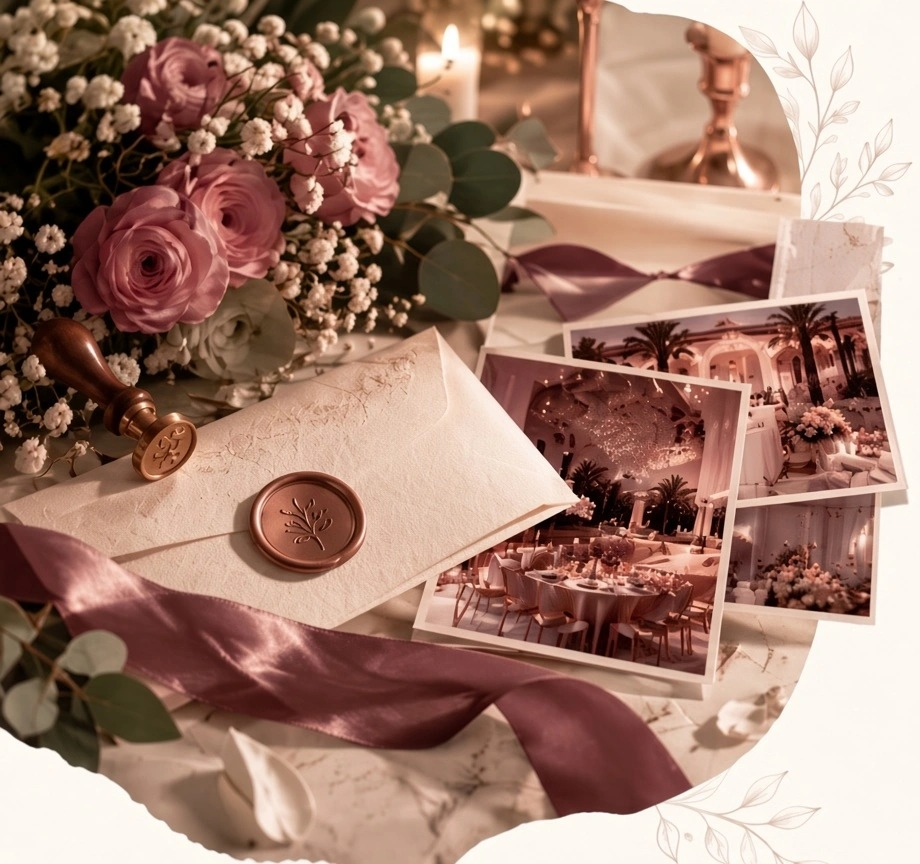
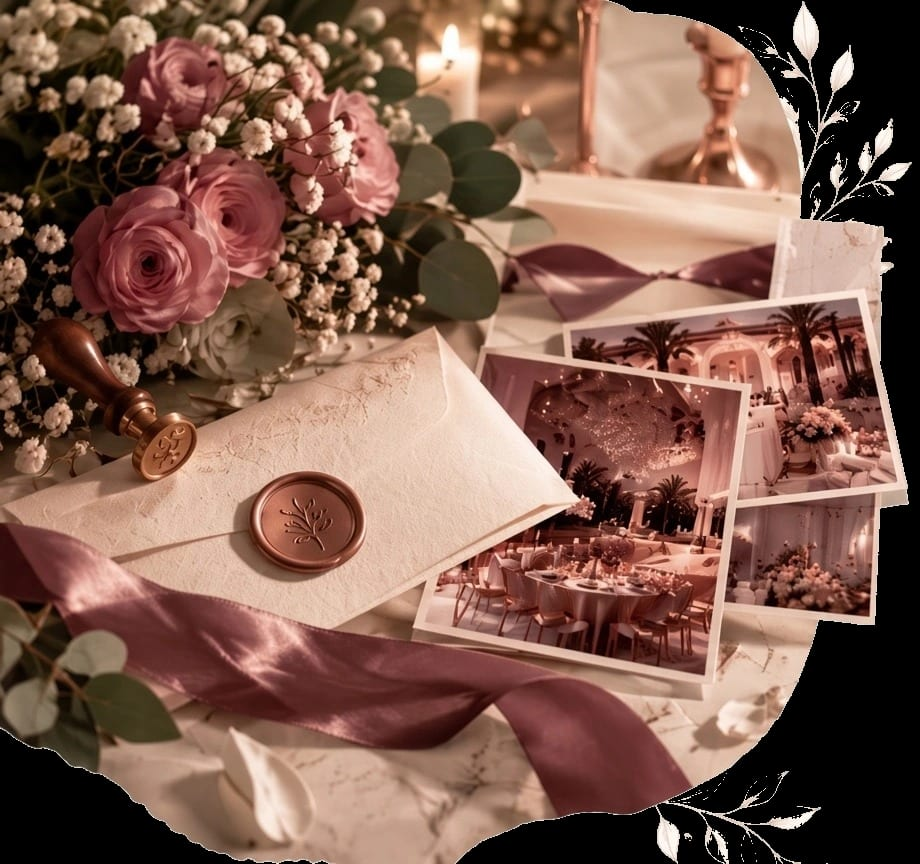
perf(frontend): compress assets, lazy-load landing, and bold hall/auth CTAs
Replace heavy PNGs with JPEGs, drop unused home assets and JoinSection, lazy-load category/featured sections, and strengthen DIN Next CTA weight without shipping local dark mode or demo login.

Changed region(s): [[0.487, 0.0, 1.0, 1.0], [0.0, 0.8438, 0.2739, 1.0], [0.3043, 0.9688, 0.3348, 1.0]]

diff --git a/Frontend/src/components/assistant/AskMabroukAboutHallButton.tsx b/Frontend/src/components/assistant/AskMabroukAboutHallButton.tsx
@@ -45,7 +45,7 @@ export default function AskMabroukAboutHallButton({
         onClick={() => launcher.openWithContext({ id: hallId, name })}
         className={`relative inline-flex w-max max-w-full flex-col items-center focus-visible:outline focus-visible:outline-2 focus-visible:outline-offset-2 focus-visible:outline-[var(--wesal-maroon)] disabled:cursor-not-allowed ${className}`}
       >
-        <span className="ask-mabrouk-edge-prompt relative z-10 mb-1 max-w-[11rem] rounded-2xl bg-[var(--wesal-white)] px-3 py-1.5 text-center text-xs font-bold leading-5 text-[var(--wesal-maroon)] shadow-[0_8px_18px_rgba(193,123,127,0.18)]">
+        <span className="ask-mabrouk-edge-prompt wesal-text-bold relative z-10 mb-1 max-w-[11rem] rounded-2xl bg-[var(--wesal-white)] px-3 py-1.5 text-center text-xs leading-5 text-[var(--wesal-maroon)] shadow-[0_8px_18px_rgba(193,123,127,0.18)]">
           {t("assistant.hallButton.prompt")}
           <span className="ask-mabrouk-edge-tail absolute -bottom-1 start-5 size-2.5 rotate-45 bg-[var(--wesal-white)]" aria-hidden="true" />
         </span>
@@ -61,7 +61,7 @@ export default function AskMabroukAboutHallButton({
         </span>
         <span className="wesal-mabrouk-ask inline-flex items-center gap-2 rounded-full bg-[var(--wesal-maroon)] py-1.5 pe-1.5 ps-3 text-white transition-colors hover:bg-[var(--wesal-maroon-dark)]">
           <ChatIcon />
-          <span className="text-sm font-extrabold">{t("assistant.hallButton.title")}</span>
+          <span className="wesal-text-bold text-sm">{t("assistant.hallButton.title")}</span>
           <span className="wesal-mabrouk-ask-chevron grid size-7 place-items-center rounded-full bg-[var(--wesal-pink)] text-[var(--wesal-maroon)]" aria-hidden="true">
             <ChevronIcon />
           </span>
@@ -93,10 +93,10 @@ export default function AskMabroukAboutHallButton({
         />
       </span>
       <span className="min-w-0 flex-1 px-1 text-center">
-        <span className="block text-xs font-extrabold leading-tight text-white">
+        <span className="wesal-text-bold block text-xs leading-tight text-white">
           {t("assistant.hallButton.title")}
         </span>
-        <span className="mt-px block text-[0.6rem] font-semibold leading-tight text-white/80">
+        <span className="wesal-text-bold mt-px block text-[0.6rem] leading-tight text-white/90">
           {t("assistant.hallButton.subtitle")}
         </span>
       </span>

diff --git a/Frontend/src/components/halls/HallGuestFeedbackPrompt.tsx b/Frontend/src/components/halls/HallGuestFeedbackPrompt.tsx
@@ -24,20 +24,20 @@ export default function HallGuestFeedbackPrompt({
   const loginHref = `/login?redirect=/halls/${hallId}&intent=comment`;
   const registerHref = `/register?redirect=/halls/${hallId}&intent=comment`;
   const linkClass =
-    "text-[#8a6a2e] underline decoration-[#c4a05c] decoration-1 underline-offset-[5px] hover:text-[#6b521c] hover:decoration-[#e8c35a]";
+    "wesal-text-bold text-[#8a6a2e] underline decoration-[#c4a05c] decoration-1 underline-offset-[5px] hover:text-[#6b521c] hover:decoration-[#e8c35a]";
 
   return (
     <p
-      className="mx-auto mt-5 flex max-w-lg items-center justify-center gap-2 text-center text-[15px] font-bold leading-8"
+      className="wesal-text-bold mx-auto mt-5 flex max-w-lg items-center justify-center gap-2 text-center text-[15px] leading-8"
       data-testid="hall-feedback-guest"
     >
       <PencilIcon />
       <span>
-        <span className="wesal-gold-wave-text">{t("halls.guest.prompt")}</span>
+        <span className="wesal-gold-wave-text wesal-text-bold">{t("halls.guest.prompt")}</span>
         <Link href={registerHref} className={linkClass}>
           {t("halls.guest.join")}
         </Link>
-        <span className="wesal-gold-wave-text">{t("halls.guest.or")}</span>
+        <span className="wesal-gold-wave-text wesal-text-bold">{t("halls.guest.or")}</span>
         <Link href={loginHref} className={linkClass}>
           {t("halls.guest.login")}
         </Link>

diff --git a/Frontend/src/components/halls/HallDetailsPage.tsx b/Frontend/src/components/halls/HallDetailsPage.tsx
@@ -473,7 +473,7 @@ function HallInquiryActions({
         {phone ? (
           <span
             dir="ltr"
-            className="inline-flex h-9 w-full items-center justify-center rounded-full border border-[color-mix(in_srgb,var(--wesal-border)_55%,transparent)] bg-[#f7f4f2] text-xs font-bold text-[var(--wesal-text)] transition hover:border-[var(--wesal-maroon)] hover:shadow-sm sm:w-auto"
+            className="wesal-text-bold inline-flex h-9 w-full items-center justify-center rounded-full border border-[color-mix(in_srgb,var(--wesal-border)_55%,transparent)] bg-[#f7f4f2] text-xs text-[var(--wesal-text)] transition hover:border-[var(--wesal-maroon)] hover:shadow-sm sm:w-auto"
           >
             <a
               href={`tel:${phone.replace(/[^\d+]/g, "")}`}
@@ -500,7 +500,7 @@ function HallInquiryActions({
             target="_blank"
             rel="noopener noreferrer"
             aria-label={t("halls.details.inquiryWhatsAppAria")}
-            className="inline-flex h-9 w-full items-center justify-center gap-1.5 rounded-full bg-[#25D366] px-3.5 text-xs font-bold text-white shadow-sm transition hover:bg-[#1ebe5d] sm:w-auto"
+            className="wesal-text-bold inline-flex h-9 w-full items-center justify-center gap-1.5 rounded-full bg-[#25D366] px-3.5 text-xs text-white shadow-sm transition hover:bg-[#1ebe5d] sm:w-auto"
           >
             <WhatsAppIcon />
             {t("halls.details.inquiryWhatsApp")}

diff --git a/Frontend/src/components/halls/HallYouTubeEmbed.tsx b/Frontend/src/components/halls/HallYouTubeEmbed.tsx
@@ -149,14 +149,14 @@ export default function HallYouTubeEmbed({
         <button
           type="button"
           onClick={openModal}
-          className="group inline-flex items-center gap-2 text-base font-semibold text-[var(--wesal-text)]"
+          className="group inline-flex items-center gap-2 text-base text-[var(--wesal-text)]"
           data-testid="hall-youtube-link"
           aria-haspopup="dialog"
         >
           <YouTubeIcon />
           <span>
-            <span className="font-bold text-[#241c18]">{t("halls.details.youtubeLead")}</span>{" "}
-            <span className="font-bold text-[var(--wesal-maroon)] underline decoration-[var(--wesal-maroon)]/40 underline-offset-4 transition duration-200 group-hover:text-[var(--wesal-maroon-dark)] group-hover:decoration-[var(--wesal-maroon-dark)]">
+            <span className="wesal-text-bold text-[#241c18]">{t("halls.details.youtubeLead")}</span>{" "}
+            <span className="wesal-text-bold text-[var(--wesal-maroon)] underline decoration-[var(--wesal-maroon)]/40 underline-offset-4 transition duration-200 group-hover:text-[var(--wesal-maroon-dark)] group-hover:decoration-[var(--wesal-maroon-dark)]">
               {t("halls.details.youtubeHere")}
             </span>
           </span>

diff --git a/Frontend/src/components/auth/LoginFormCard.tsx b/Frontend/src/components/auth/LoginFormCard.tsx
@@ -342,12 +342,12 @@ export default function LoginFormCard({
       <div className="my-3 flex items-center gap-3 text-xs text-[var(--wesal-muted)]"><span className="h-px flex-1 bg-[var(--wesal-border)]" />{t("auth.google.or")}<span className="h-px flex-1 bg-[var(--wesal-border)]" /></div>
       <GoogleAuthButton onCredential={(credential) => void onGoogleCredential(credential)} disabled={pending} />
 
-      <p className="mt-3 text-center text-xs text-[var(--wesal-muted)] sm:text-sm">
+      <p className="mt-3 text-center text-xs font-extrabold text-[var(--wesal-muted)] [-webkit-text-stroke:0.35px_currentColor] [paint-order:stroke_fill] sm:text-sm">
         {t("auth.login.noAccount")}{" "}
         <Link
           href={registerHref}
           onClick={markAuthNavigation}
-          className="font-semibold text-[var(--wesal-maroon)] underline-offset-2 hover:underline"
+          className="font-extrabold text-[var(--wesal-maroon)] underline-offset-2 hover:underline [-webkit-text-stroke:0.35px_currentColor] [paint-order:stroke_fill]"
         >
           {t("auth.login.registerLink")}
         </Link>

diff --git a/Frontend/src/components/halls/HallContactButton.tsx b/Frontend/src/components/halls/HallContactButton.tsx
@@ -15,7 +15,7 @@ const CONTACT_PAGE_CLASS =
   "btn-primary min-h-11 h-full w-full gap-2 whitespace-nowrap";
 
 const CONTACT_COMPACT_CLASS =
-  "inline-flex h-9 items-center justify-center gap-1.5 rounded-full border border-[color-mix(in_srgb,var(--wesal-maroon)_22%,white)] bg-[color-mix(in_srgb,var(--wesal-pink)_72%,white)] px-3.5 text-xs font-bold text-[var(--wesal-maroon)] transition hover:bg-[var(--wesal-pink)]";
+  "wesal-text-bold inline-flex h-9 items-center justify-center gap-1.5 rounded-full border border-[color-mix(in_srgb,var(--wesal-maroon)_22%,white)] bg-[color-mix(in_srgb,var(--wesal-pink)_72%,white)] px-3.5 text-xs text-[var(--wesal-maroon)] transition hover:bg-[var(--wesal-pink)]";
 
 type HallContactButtonProps = {
   hallId: string;

diff --git a/Frontend/src/components/auth/GoogleAuthButton.tsx b/Frontend/src/components/auth/GoogleAuthButton.tsx
@@ -129,7 +129,7 @@ export default function GoogleAuthButton({
       >
         {/* Same footprint as login submit (rounded-xl / min-h-10). */}
         <div
-          className="pointer-events-none flex min-h-10 w-full items-center justify-center gap-2 rounded-xl border border-[var(--wesal-border)] bg-[var(--wesal-pink-soft)] px-3 text-sm font-bold text-[var(--wesal-maroon-dark)]"
+          className="pointer-events-none flex min-h-10 w-full items-center justify-center gap-2 rounded-xl border border-[var(--wesal-border)] bg-[var(--wesal-pink-soft)] px-3 text-sm font-extrabold text-[var(--wesal-maroon-dark)] [-webkit-text-stroke:0.35px_currentColor] [paint-order:stroke_fill]"
           aria-hidden="true"
         >
           <GoogleMark />

diff --git a/Frontend/src/app/page.tsx b/Frontend/src/app/page.tsx
@@ -1,10 +1,14 @@
 import Navbar from "@/components/layout/Navbar";
 import Footer from "@/components/layout/Footer";
 import HeroSection from "@/components/home/HeroSection";
-import HomeCategoriesSection from "@/components/home/HomeCategoriesSection";
-import FeaturedHallsSection from "@/components/home/FeaturedHallsSection";
 import dynamic from "next/dynamic";
 
+const HomeCategoriesSection = dynamic(
+  () => import("@/components/home/HomeCategoriesSection"),
+);
+const FeaturedHallsSection = dynamic(
+  () => import("@/components/home/FeaturedHallsSection"),
+);
 const OccasionServicesSection = dynamic(
   () => import("@/components/home/OccasionServicesSection"),
 );

diff --git a/Frontend/src/components/halls/HallDetailsView.tsx b/Frontend/src/components/halls/HallDetailsView.tsx
@@ -310,7 +310,7 @@ export default function HallDetailsView({ hallId, onClose }: HallDetailsViewProp
                   <span className="hall-popup-details-cta-chip grid h-7 w-7 shrink-0 place-items-center rounded-full bg-[var(--wesal-pink)] text-[var(--wesal-brand-ink)] ring-2 ring-white">
                     <DetailsIcon />
                   </span>
-                  <span className="min-w-0 flex-1 px-2 text-center text-xs font-extrabold leading-tight">
+                  <span className="wesal-text-bold min-w-0 flex-1 px-2 text-center text-xs leading-tight">
                     {t("halls.popup.clickForDetails")}
                   </span>
                   <span

diff --git a/Frontend/src/app/globals.css b/Frontend/src/app/globals.css
@@ -164,6 +164,13 @@ h3.home-category-title,
   zoom: 1;
 }
 
+/* Inline UI labels/CTAs that must read bold with DIN Next Regular */
+.wesal-text-bold {
+  font-weight: 800 !important;
+  -webkit-text-stroke: 0.4px currentColor;
+  paint-order: stroke fill;
+}
+
 .hall-details-tab {
   -webkit-text-stroke: 0.4px currentColor;
 }
@@ -5362,7 +5369,9 @@ button.btn-primary.wesal-auth-submit:disabled:active {
 
 .wesal-register-type-segment {
   color: #4a3d36;
-  font-weight: 600;
+  font-weight: 800;
+  -webkit-text-stroke: 0.35px currentColor;
+  paint-order: stroke fill;
   background: transparent;
   border: none;
   cursor: pointer;

diff --git a/Frontend/src/components/auth/RegisterAccountTypeScreen.tsx b/Frontend/src/components/auth/RegisterAccountTypeScreen.tsx
@@ -90,7 +90,7 @@ export default function RegisterAccountTypeScreen({
                 setAccountTypeError(null);
                 storeAccountType(option);
               }}
-              className={`wesal-register-type-segment flex flex-1 items-center justify-center gap-1.5 rounded-md px-1.5 py-2 text-xs font-semibold sm:px-2.5 sm:text-[0.82rem] ${
+              className={`wesal-register-type-segment wesal-text-bold flex flex-1 items-center justify-center gap-1.5 rounded-md px-1.5 py-2 text-xs sm:px-2.5 sm:text-[0.82rem] ${
                 isSelected ? "wesal-register-type-segment--active" : ""
               }`}
             >

diff --git a/Frontend/src/components/halls/HallDetailsHeader.tsx b/Frontend/src/components/halls/HallDetailsHeader.tsx
@@ -111,7 +111,7 @@ export default function HallDetailsHeader({
       {showMeta ? (
         <div className="flex flex-col gap-4 sm:flex-row sm:items-start sm:justify-between">
           <div className="min-w-0">
-            <p className="flex w-full flex-wrap items-center gap-x-2 gap-y-1 text-sm font-semibold text-[var(--wesal-text)] sm:w-auto">
+            <p className="wesal-text-bold flex w-full flex-wrap items-center gap-x-2 gap-y-1 text-sm text-[var(--wesal-text)] sm:w-auto">
               <StarIcon />
               {rating ? (
                 <span className="inline-flex min-w-0 flex-wrap items-center gap-x-1.5">
